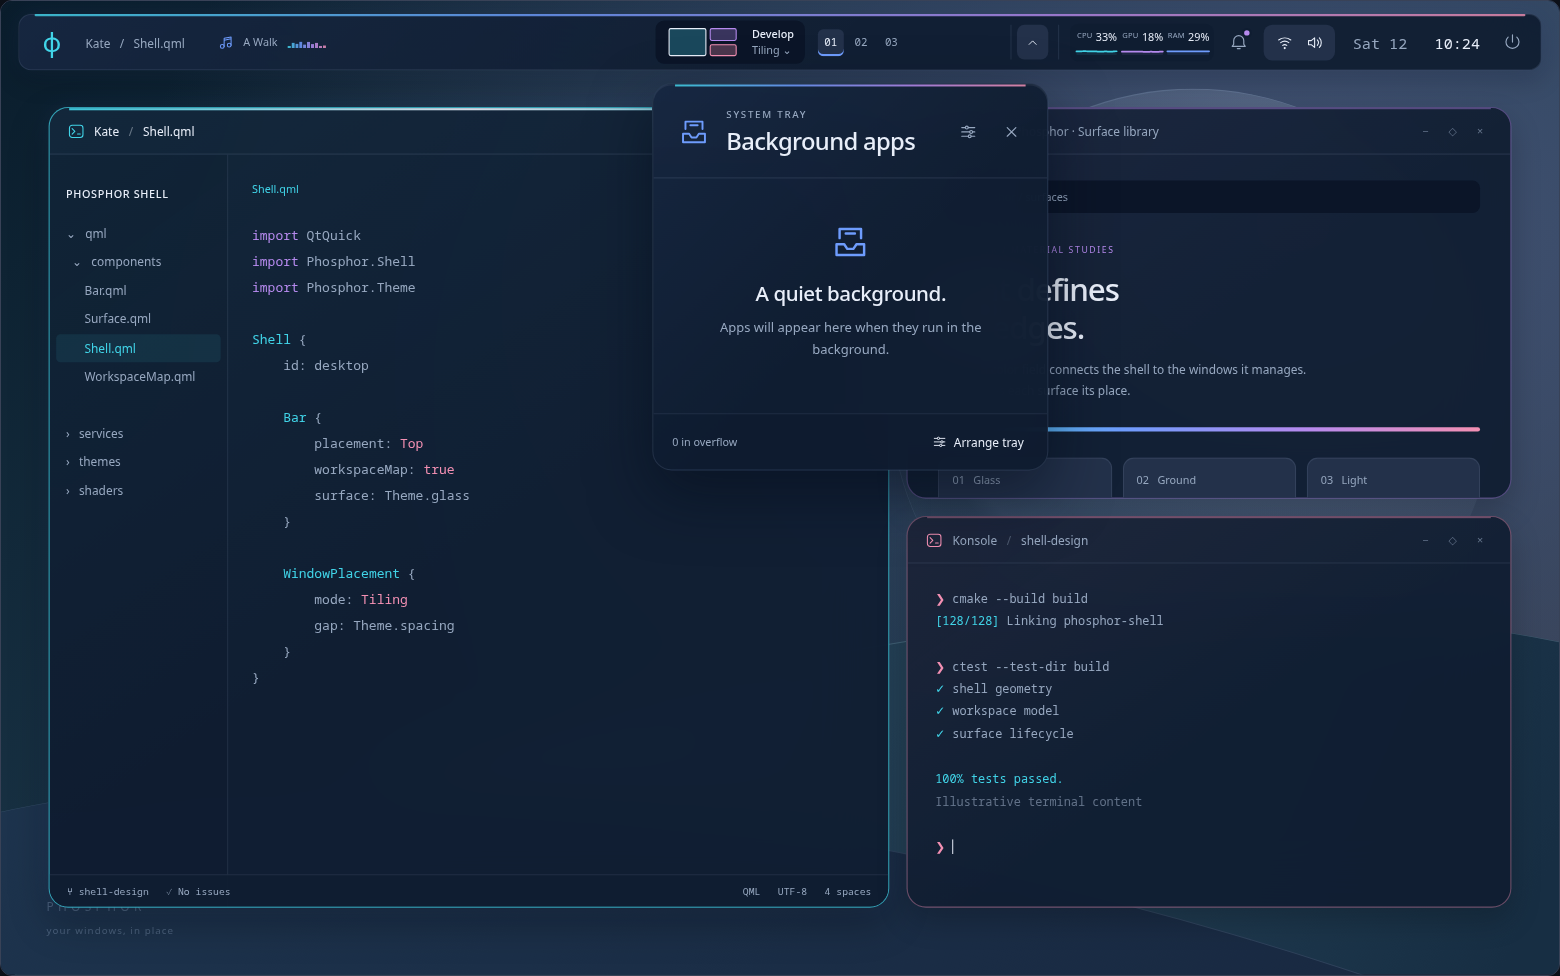
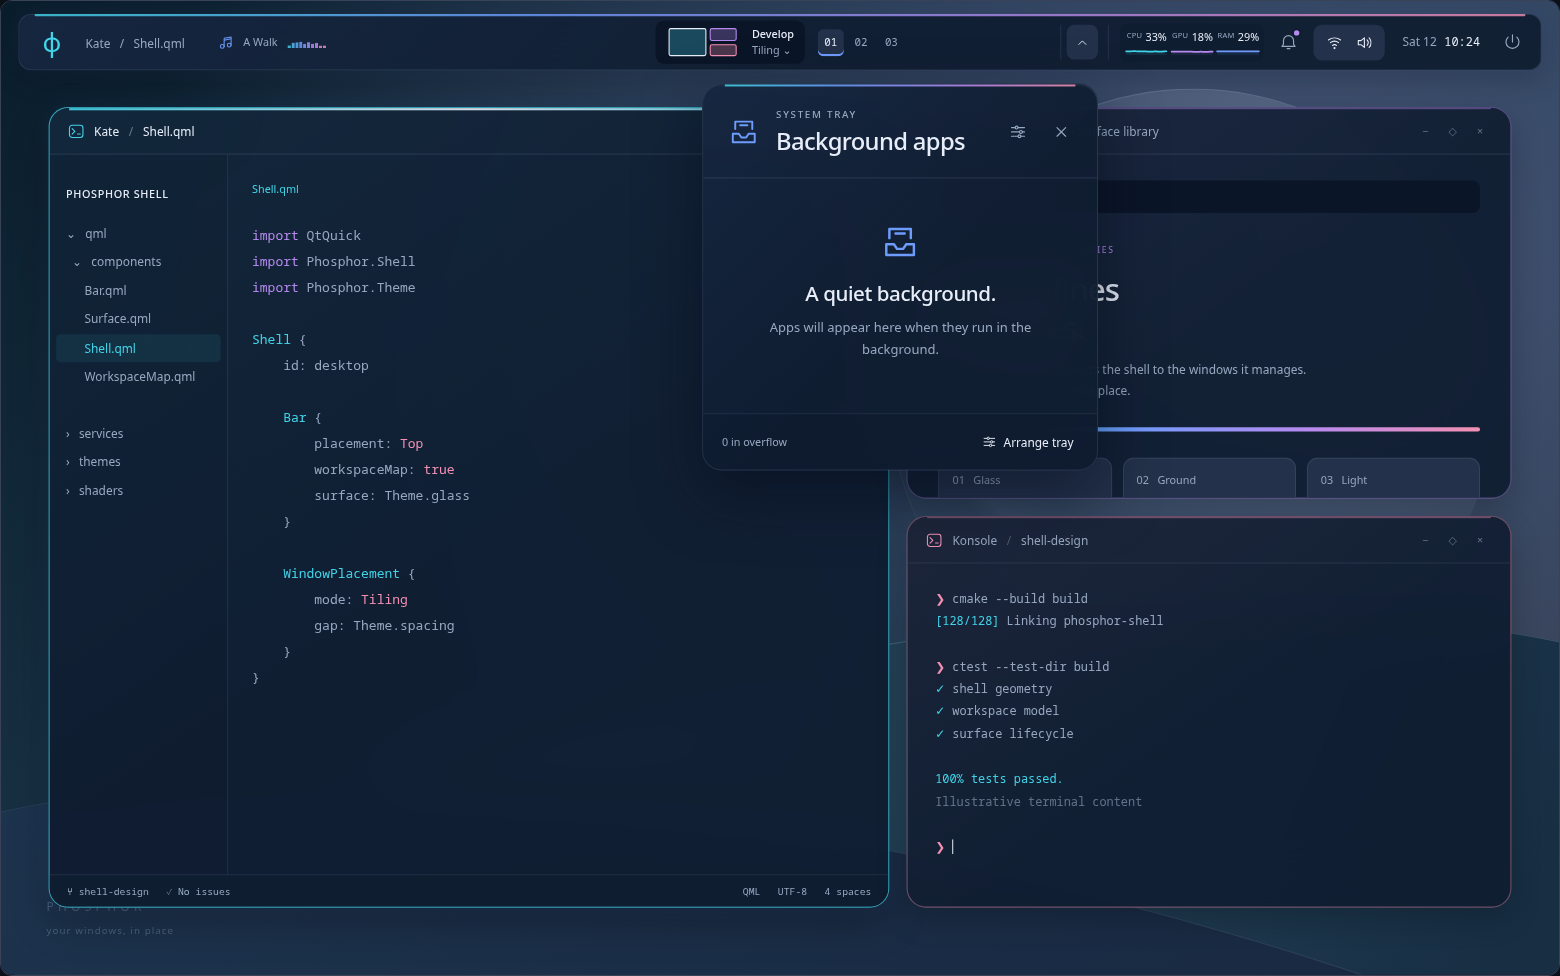
fix(design): tighten bar date and time typography

diff --git a/docs/phosphor-shell-design/mockups-v3/studies.js b/docs/phosphor-shell-design/mockups-v3/studies.js
@@ -133,7 +133,7 @@ function renderBar() {
     <div class="bar-right">${systemTray.barMarkup()}${systemStats.barMarkup()}
     <button class="bar-notifications" data-view="notifications" data-unread="${notificationCenter.unread()>0}" aria-label="Notifications, ${notificationCenter.unread()} unread" aria-expanded="${state.view==='notifications'&&notificationCenter.inboxOpen()}" aria-controls="notifications">${icon('bell')}</button>
     <button class="status-cluster" data-view="controls" aria-label="Open quick settings" aria-expanded="${state.view==='controls'}">${icon('wifi')}${icon('volume')}</button>
-    <button class="clock" data-view="datetime" aria-label="Open date and time" aria-expanded="${state.view==='datetime'}" aria-controls="datetime"><span class="clock-date">Sat 12 &nbsp; </span><span style="color:var(--text)">10:24</span></button>
+    <button class="clock" data-view="datetime" aria-label="Open date and time" aria-expanded="${state.view==='datetime'}" aria-controls="datetime"><span class="clock-date">Sat 12</span><span class="clock-time">10:24</span></button>
     <button class="settings-trigger" data-view="appearance" aria-label="Open Appearance">◈</button>
     <button class="bar-power" data-view="power" aria-label="Open session menu" aria-expanded="${state.view==='power'}">${icon('power')}</button></div>`;
   syncVisualizer();

diff --git a/docs/phosphor-shell-design/mockups-v3/studies.css b/docs/phosphor-shell-design/mockups-v3/studies.css
@@ -86,8 +86,8 @@ h1{font-size:25px;letter-spacing:-.8px;font-weight:500;margin:7px 0}
 .session-menu kbd{font-size:10px;color:var(--muted);border-color:var(--outline);opacity:0}
 .session-menu button.selected kbd{opacity:1}
 @keyframes session-confirm{to{height:0}}
-.clock{font-variant-numeric:tabular-nums;color:var(--muted);margin-right:9px}
-.clock{padding:9px 10px;border-radius:8px}
+.clock{display:inline-flex;align-items:center;gap:7px;min-height:32px;padding:7px 8px;border-radius:8px;font-size:11px;line-height:1.2;letter-spacing:normal;font-variant-numeric:tabular-nums;white-space:nowrap;color:var(--muted)}
+.clock-date{font-family:var(--ap-font,'Noto Sans'),sans-serif}.clock-time{color:var(--text)}
 .clock[aria-expanded=true]{background:var(--card);color:var(--text);box-shadow:inset 0 -2px var(--c3)}
 #datetime{position:absolute;z-index:10;left:var(--calendar-left,850px);top:calc(var(--bar-size) + 26px);width:410px;padding:var(--pad);animation:enter .2s ease;overflow:hidden}
 #datetime:before{content:'';position:absolute;top:0;left:22px;right:22px;height:2px;background:var(--spectrum)}

diff --git a/docs/phosphor-shell-design/mockups-v3/system-tray.css b/docs/phosphor-shell-design/mockups-v3/system-tray.css
@@ -13,7 +13,7 @@
 .desktop[data-edge=bottom] .tray-overflow-trigger>.icon{transform:rotate(180deg)}.desktop[data-edge=bottom] .tray-overflow-trigger[aria-expanded=true]>.icon{transform:none}
 .tray-status-dot{position:absolute;right:4px;top:4px;width:5px;height:5px;border-radius:50%;background:var(--c4);box-shadow:0 0 0 2px var(--bg)}.tray-recording .tray-status-dot{border-radius:1px}
 /* Give the right region room while keeping all controls available. */
-.bar:has(.bar-tray) .ap-live-right{gap:8px}.bar:has(.bar-tray) .clock{margin:0;padding-inline:8px}
+.bar:has(.bar-tray) .ap-live-right{gap:8px}
 .bar-tray:has(+.bar-stats){border-right:1px solid var(--outline);padding-right:9px;margin-right:2px}
 .bar:has(.bar-tray) .stat-bar-reading{width:37px}.bar:has(.bar-tray) .bar-stats{gap:5px;padding-inline:5px}
 .tray-root{position:absolute;inset:0;z-index:14;pointer-events:none;--tray-warning:var(--c4)}
